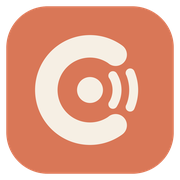
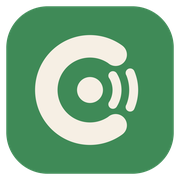
New colour: forest green and a green-tinted charcoal instead of orange

diff --git a/style.css b/style.css
@@ -1,19 +1,19 @@
 /* Class Ping -- the same look as the desktop app.
-   Study Lamp (warm dark) by default; Parchment (cream paper) when the
+   Evergreen (dark charcoal and forest green) by default; Parchment (cream paper) when the
    visitor's device is set to light. Flat: hairlines, one accent, no shine. */
 
 :root {
-  --sidebar: #1B1A18;
-  --bg: #242320;
-  --card: #2D2B28;
-  --raised: #383632;
-  --divider: #45423C;
-  --accent: #D97757;
-  --accent-hover: #E48A6B;
-  --accent-text: #1F1E1C;
-  --text: #EDE9E0;
-  --muted: #B0AA9E;
-  --faint: #8A8479;
+  --sidebar: #151917;
+  --bg: #1B201D;
+  --card: #222824;
+  --raised: #303732;
+  --divider: #3B443E;
+  --accent: #6DB585;
+  --accent-hover: #85C79B;
+  --accent-text: #121714;
+  --text: #E8ECE6;
+  --muted: #A8B0A9;
+  --faint: #848C85;
   --due: #E2A45F;
   --ok: #9DBB8F;
   --link: #8AB4F8;
@@ -303,17 +303,17 @@ footer a { color: var(--muted); }
 
 /* -- the app's five themes, chosen in Settings (copied from app/ui/theme.py) -- */
 :root[data-theme="study-lamp"] {
-  --sidebar: #1B1A18;
-  --bg: #242320;
-  --card: #2D2B28;
-  --raised: #383632;
-  --divider: #45423C;
-  --accent: #D97757;
-  --accent-hover: #E48A6B;
-  --accent-text: #1F1E1C;
-  --text: #EDE9E0;
-  --muted: #B0AA9E;
-  --faint: #8A8479;
+  --sidebar: #151917;
+  --bg: #1B201D;
+  --card: #222824;
+  --raised: #303732;
+  --divider: #3B443E;
+  --accent: #6DB585;
+  --accent-hover: #85C79B;
+  --accent-text: #121714;
+  --text: #E8ECE6;
+  --muted: #A8B0A9;
+  --faint: #848C85;
   --due: #E2A45F;
   --ok: #9DBB8F;
   --link: #8AB4F8;
@@ -555,11 +555,11 @@ main { animation: page-in 0.32s ease both; }
 .swatch i:nth-child(1) { width: 28%; }
 .swatch i:nth-child(2) { flex: 1; position: relative; }
 .swatch i:nth-child(2)::after { content: ""; position: absolute; left: 10px; right: 10px; top: 11px; height: 16px; border-radius: 3px; background: var(--sw-card); border-left: 3px solid var(--sw-accent); }
-.sw-system { --sw-card: #2D2B28; --sw-accent: #D97757; }
-.sw-system i:nth-child(1) { background: linear-gradient(to bottom, #1B1A18 50%, #EFE8DA 50%); }
-.sw-system i:nth-child(2) { background: linear-gradient(to bottom, #242320 50%, #F7F2E8 50%); }
-.sw-study-lamp { --sw-card: #2D2B28; --sw-accent: #D97757; }
-.sw-study-lamp i:nth-child(1) { background: #1B1A18; } .sw-study-lamp i:nth-child(2) { background: #242320; }
+.sw-system { --sw-card: #222824; --sw-accent: #6DB585; }
+.sw-system i:nth-child(1) { background: linear-gradient(to bottom, #151917 50%, #EFE8DA 50%); }
+.sw-system i:nth-child(2) { background: linear-gradient(to bottom, #1B201D 50%, #F7F2E8 50%); }
+.sw-study-lamp { --sw-card: #222824; --sw-accent: #6DB585; }
+.sw-study-lamp i:nth-child(1) { background: #151917; } .sw-study-lamp i:nth-child(2) { background: #1B201D; }
 .sw-parchment { --sw-card: #FFFDF8; --sw-accent: #9E2B35; }
 .sw-parchment i:nth-child(1) { background: #EFE8DA; } .sw-parchment i:nth-child(2) { background: #F7F2E8; }
 .sw-chalkboard { --sw-card: #223529; --sw-accent: #E8C547; }

diff --git a/index.html b/index.html
@@ -6,22 +6,22 @@
   <meta property="og:site_name" content="Class Ping">
   <meta property="og:title" content="Class Ping">
   <meta property="og:description" content="Your Google Classroom, sorted into a to-do list, with a ping when something is new. Free for Windows.">
-  <meta property="og:image" content="https://classping.wazeem.com/social.png?v=3">
+  <meta property="og:image" content="https://classping.wazeem.com/social.png?v=4">
   <meta property="og:image:width" content="1200">
   <meta property="og:image:height" content="630">
   <meta name="twitter:card" content="summary_large_image">
   <title>Class Ping</title>
   <meta name="description" content="Class Ping is a free Windows app for students: your Google Classroom posts, sorted into a to-do list, with a notification when something new is posted.">
-  <link rel="icon" type="image/png" href="favicon.png">
-  <link rel="apple-touch-icon" href="apple-touch-icon.png">
-  <link rel="stylesheet" href="style.css">
-  <script src="site.js"></script>
+  <link rel="icon" type="image/png" href="favicon.png?v=4">
+  <link rel="apple-touch-icon" href="apple-touch-icon.png?v=4">
+  <link rel="stylesheet" href="style.css?v=4">
+  <script src="site.js?v=4"></script>
 </head>
 <body>
 
 <header class="top">
   <div class="wrap">
-    <a class="brand" href="./"><img src="logo.png" alt="" width="30" height="30">Class Ping</a>
+    <a class="brand" href="./"><img src="logo.png?v=4" alt="" width="30" height="30">Class Ping</a>
     <button type="button" class="menu-toggle" aria-expanded="false" aria-controls="site-nav"><span class="bars" aria-hidden="true"></span>Menu</button>
     <nav id="site-nav" aria-label="Pages">
       <a href="./" aria-current="page">Home</a>
@@ -38,7 +38,7 @@
 
   <section class="wrap hero">
     <div>
-      <img class="hero-logo" src="logo-name.png?v=3" alt="Class Ping logo" width="104" height="104">
+      <img class="hero-logo" src="logo-name.png?v=4" alt="Class Ping logo" width="104" height="104">
       <span class="eyebrow">For Google Classroom &middot; Windows</span>
       <h1>Your Classroom, sorted. A ping when something is new.</h1>
       <p class="lead">Class Ping turns your Google Classroom into a to-do list, and tells you within seconds when a teacher posts.</p>
@@ -116,7 +116,7 @@
         </div>
         <div class="feature">
           <h3>Five themes</h3>
-          <p>Study Lamp, Parchment, Chalkboard, Midnight Ink and Ebony: dark and light, all easy on the eyes.</p>
+          <p>Evergreen, Parchment, Chalkboard, Midnight Ink and Ebony: dark and light, all easy on the eyes.</p>
         </div>
       </div>
     </div>

diff --git a/privacy.html b/privacy.html
@@ -6,22 +6,22 @@
   <meta property="og:site_name" content="Class Ping">
   <meta property="og:title" content="Class Ping">
   <meta property="og:description" content="Your Google Classroom, sorted into a to-do list, with a ping when something is new. Free for Windows.">
-  <meta property="og:image" content="https://classping.wazeem.com/social.png?v=3">
+  <meta property="og:image" content="https://classping.wazeem.com/social.png?v=4">
   <meta property="og:image:width" content="1200">
   <meta property="og:image:height" content="630">
   <meta name="twitter:card" content="summary_large_image">
   <title>Class Ping Privacy Policy</title>
   <meta name="description" content="What Class Ping keeps on your PC, what it sends, who it is shared with, and how to delete it.">
-  <link rel="icon" type="image/png" href="favicon.png">
-  <link rel="apple-touch-icon" href="apple-touch-icon.png">
-  <link rel="stylesheet" href="style.css">
-  <script src="site.js"></script>
+  <link rel="icon" type="image/png" href="favicon.png?v=4">
+  <link rel="apple-touch-icon" href="apple-touch-icon.png?v=4">
+  <link rel="stylesheet" href="style.css?v=4">
+  <script src="site.js?v=4"></script>
 </head>
 <body>
 
 <header class="top">
   <div class="wrap">
-    <a class="brand" href="./"><img src="logo.png" alt="" width="30" height="30">Class Ping</a>
+    <a class="brand" href="./"><img src="logo.png?v=4" alt="" width="30" height="30">Class Ping</a>
     <button type="button" class="menu-toggle" aria-expanded="false" aria-controls="site-nav"><span class="bars" aria-hidden="true"></span>Menu</button>
     <nav id="site-nav" aria-label="Pages">
       <a href="./">Home</a>

diff --git a/terms.html b/terms.html
@@ -6,22 +6,22 @@
   <meta property="og:site_name" content="Class Ping">
   <meta property="og:title" content="Class Ping">
   <meta property="og:description" content="Your Google Classroom, sorted into a to-do list, with a ping when something is new. Free for Windows.">
-  <meta property="og:image" content="https://classping.wazeem.com/social.png?v=3">
+  <meta property="og:image" content="https://classping.wazeem.com/social.png?v=4">
   <meta property="og:image:width" content="1200">
   <meta property="og:image:height" content="630">
   <meta name="twitter:card" content="summary_large_image">
   <title>Class Ping Terms of Service</title>
   <meta name="description" content="The rules for using Class Ping, the free Windows app for Google Classroom, and its website.">
-  <link rel="icon" type="image/png" href="favicon.png">
-  <link rel="apple-touch-icon" href="apple-touch-icon.png">
-  <link rel="stylesheet" href="style.css">
-  <script src="site.js"></script>
+  <link rel="icon" type="image/png" href="favicon.png?v=4">
+  <link rel="apple-touch-icon" href="apple-touch-icon.png?v=4">
+  <link rel="stylesheet" href="style.css?v=4">
+  <script src="site.js?v=4"></script>
 </head>
 <body>
 
 <header class="top">
   <div class="wrap">
-    <a class="brand" href="./"><img src="logo.png" alt="" width="30" height="30">Class Ping</a>
+    <a class="brand" href="./"><img src="logo.png?v=4" alt="" width="30" height="30">Class Ping</a>
     <button type="button" class="menu-toggle" aria-expanded="false" aria-controls="site-nav"><span class="bars" aria-hidden="true"></span>Menu</button>
     <nav id="site-nav" aria-label="Pages">
       <a href="./">Home</a>

diff --git a/support.html b/support.html
@@ -6,22 +6,22 @@
   <meta property="og:site_name" content="Class Ping">
   <meta property="og:title" content="Class Ping">
   <meta property="og:description" content="Your Google Classroom, sorted into a to-do list, with a ping when something is new. Free for Windows.">
-  <meta property="og:image" content="https://classping.wazeem.com/social.png?v=3">
+  <meta property="og:image" content="https://classping.wazeem.com/social.png?v=4">
   <meta property="og:image:width" content="1200">
   <meta property="og:image:height" content="630">
   <meta name="twitter:card" content="summary_large_image">
   <title>Class Ping Support</title>
   <meta name="description" content="Get help with Class Ping: send feedback, report a bug, or read the common questions.">
-  <link rel="icon" type="image/png" href="favicon.png">
-  <link rel="apple-touch-icon" href="apple-touch-icon.png">
-  <link rel="stylesheet" href="style.css">
-  <script src="site.js"></script>
+  <link rel="icon" type="image/png" href="favicon.png?v=4">
+  <link rel="apple-touch-icon" href="apple-touch-icon.png?v=4">
+  <link rel="stylesheet" href="style.css?v=4">
+  <script src="site.js?v=4"></script>
 </head>
 <body>
 
 <header class="top">
   <div class="wrap">
-    <a class="brand" href="./"><img src="logo.png" alt="" width="30" height="30">Class Ping</a>
+    <a class="brand" href="./"><img src="logo.png?v=4" alt="" width="30" height="30">Class Ping</a>
     <button type="button" class="menu-toggle" aria-expanded="false" aria-controls="site-nav"><span class="bars" aria-hidden="true"></span>Menu</button>
     <nav id="site-nav" aria-label="Pages">
       <a href="./">Home</a>

diff --git a/download.html b/download.html
@@ -6,22 +6,22 @@
   <meta property="og:site_name" content="Class Ping">
   <meta property="og:title" content="Class Ping">
   <meta property="og:description" content="Your Google Classroom, sorted into a to-do list, with a ping when something is new. Free for Windows.">
-  <meta property="og:image" content="https://classping.wazeem.com/social.png?v=3">
+  <meta property="og:image" content="https://classping.wazeem.com/social.png?v=4">
   <meta property="og:image:width" content="1200">
   <meta property="og:image:height" content="630">
   <meta name="twitter:card" content="summary_large_image">
   <title>Download Class Ping</title>
   <meta name="description" content="Class Ping for Windows is coming soon to the Microsoft Store: free, with no ads.">
-  <link rel="icon" type="image/png" href="favicon.png">
-  <link rel="apple-touch-icon" href="apple-touch-icon.png">
-  <link rel="stylesheet" href="style.css">
-  <script src="site.js"></script>
+  <link rel="icon" type="image/png" href="favicon.png?v=4">
+  <link rel="apple-touch-icon" href="apple-touch-icon.png?v=4">
+  <link rel="stylesheet" href="style.css?v=4">
+  <script src="site.js?v=4"></script>
 </head>
 <body>
 
 <header class="top">
   <div class="wrap">
-    <a class="brand" href="./"><img src="logo.png" alt="" width="30" height="30">Class Ping</a>
+    <a class="brand" href="./"><img src="logo.png?v=4" alt="" width="30" height="30">Class Ping</a>
     <button type="button" class="menu-toggle" aria-expanded="false" aria-controls="site-nav"><span class="bars" aria-hidden="true"></span>Menu</button>
     <nav id="site-nav" aria-label="Pages">
       <a href="./">Home</a>

diff --git a/settings.html b/settings.html
@@ -6,22 +6,22 @@
   <meta property="og:site_name" content="Class Ping">
   <meta property="og:title" content="Class Ping">
   <meta property="og:description" content="Your Google Classroom, sorted into a to-do list, with a ping when something is new. Free for Windows.">
-  <meta property="og:image" content="https://classping.wazeem.com/social.png?v=3">
+  <meta property="og:image" content="https://classping.wazeem.com/social.png?v=4">
   <meta property="og:image:width" content="1200">
   <meta property="og:image:height" content="630">
   <meta name="twitter:card" content="summary_large_image">
   <title>Class Ping Settings</title>
   <meta name="description" content="Choose how the Class Ping website looks: theme, text size and links.">
-  <link rel="icon" type="image/png" href="favicon.png">
-  <link rel="apple-touch-icon" href="apple-touch-icon.png">
-  <link rel="stylesheet" href="style.css">
-  <script src="site.js"></script>
+  <link rel="icon" type="image/png" href="favicon.png?v=4">
+  <link rel="apple-touch-icon" href="apple-touch-icon.png?v=4">
+  <link rel="stylesheet" href="style.css?v=4">
+  <script src="site.js?v=4"></script>
 </head>
 <body>
 
 <header class="top">
   <div class="wrap">
-    <a class="brand" href="./"><img src="logo.png" alt="" width="30" height="30">Class Ping</a>
+    <a class="brand" href="./"><img src="logo.png?v=4" alt="" width="30" height="30">Class Ping</a>
     <button type="button" class="menu-toggle" aria-expanded="false" aria-controls="site-nav"><span class="bars" aria-hidden="true"></span>Menu</button>
     <nav id="site-nav" aria-label="Pages">
       <a href="./">Home</a>

diff --git a/site.js b/site.js
@@ -8,7 +8,7 @@
   var DEFAULTS = { theme: "system", text: "normal", links: "plain" };
   var THEMES = [
     ["system", "Match my device"],
-    ["study-lamp", "Study Lamp"],
+    ["study-lamp", "Evergreen"],
     ["parchment", "Parchment"],
     ["chalkboard", "Chalkboard"],
     ["midnight-ink", "Midnight Ink"],
